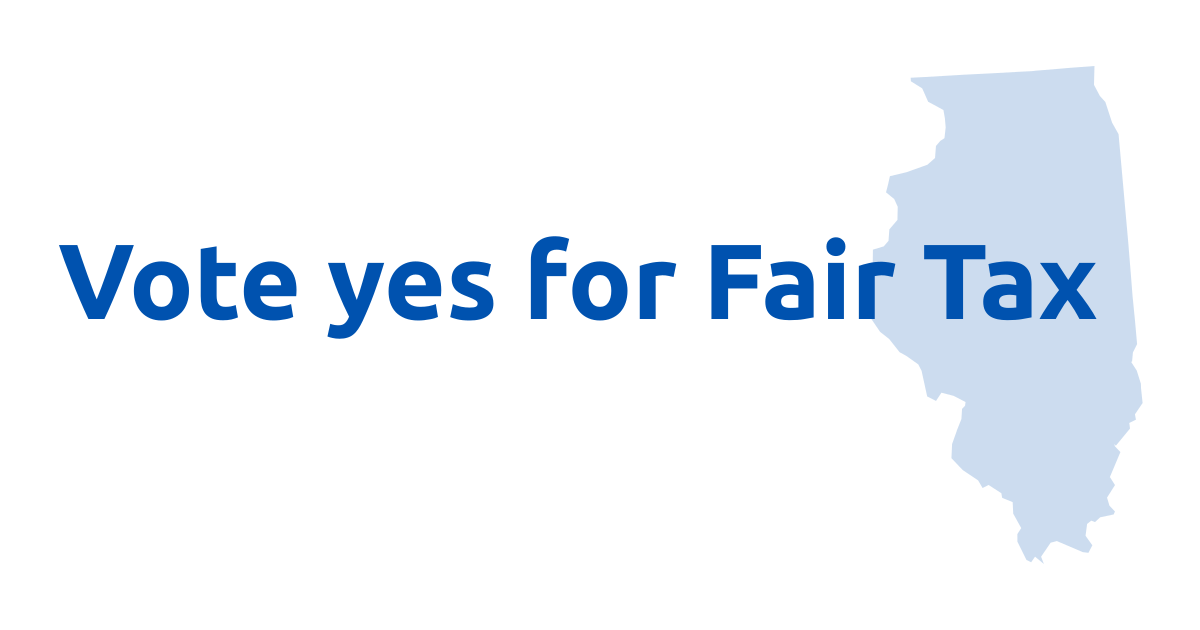
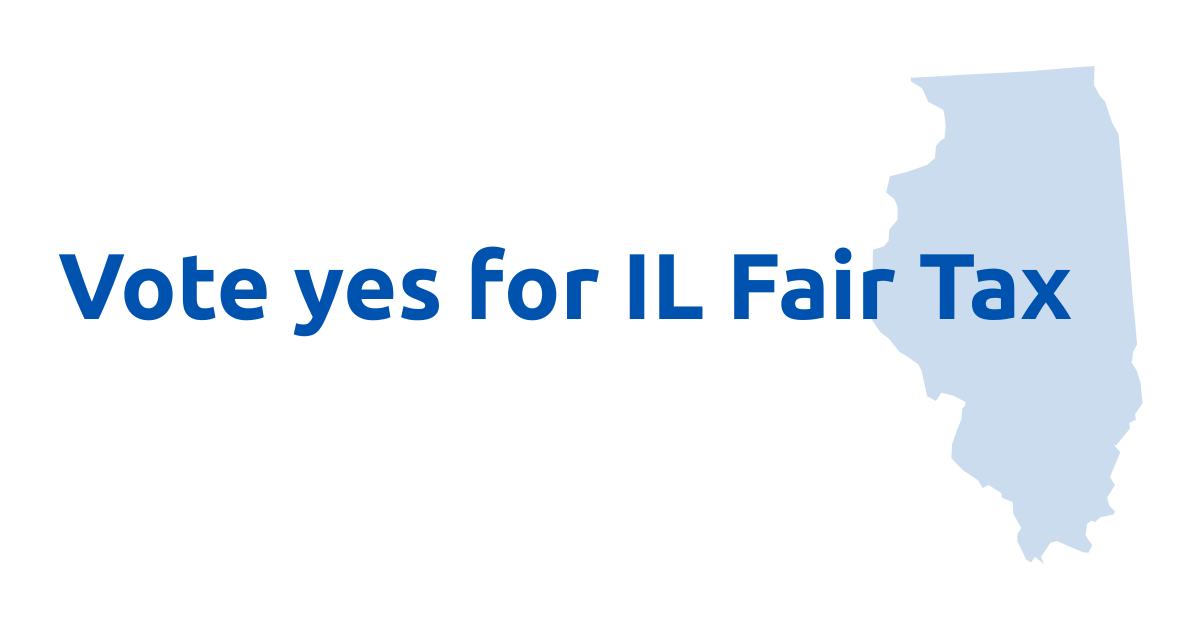
refactor: updates from feedback

Changed region(s): [[0.0308, 0.3619, 0.925, 0.5429]]

diff --git a/site/_data/site.js b/site/_data/site.js
@@ -20,8 +20,8 @@ const baseurl =
     : "http://localhost:8080"
 
 module.exports = {
-  name: "Vote Yes for Fair Tax",
-  title: "Vote Yes for Fair Tax",
+  name: "Vote Yes for the Illinois Fair Tax",
+  title: "Vote Yes for the Illinois Fair Tax",
   type: "website",
   baseurl,
   url: baseurl,

diff --git a/site/en/about-section.md b/site/en/about-section.md
@@ -8,4 +8,4 @@ locale: en
 
 With the current tax system in Illinois, low-income households pay almost twice as large a share of their income as some of the wealthiest people in the state [\[source<span class="visually-hidden"> report from the Institute on Taxation and Economic Policy</span>\]](https://itep.sfo2.digitaloceanspaces.com/whopays-ITEP-2018.pdf). Meanwhile communities across the state don't have the revenue they need to support education, infrastructure, and health care. And the needs are more pressing than ever in the middle of a global pandemic.
 
-We have a chance to change that in the upcoming election. By passing the Fair Tax amendment and updating the tax rates, we can raise more than \$3 billion a year by making sure the wealthiest 3% of the state pays their fair share with a small tax increase. You can make Illinois a more fair state for working people by voting yes for the Fair Tax.
+We have a chance to change that in the upcoming election. By passing the Fair Tax amendment and updating the tax rates, we can raise more than \$3 billion a year by making sure households making more than \$250,000 (the wealthiest 3% of the state) pays their fair share with a small tax increase. You can make Illinois a more fair state for working people by voting yes for the Fair Tax.

diff --git a/site/en/faqs/property-taxes.md b/site/en/faqs/property-taxes.md
@@ -1,9 +1,9 @@
 ---
 tags: faqs
 title: Don't I pay enough in property taxes?
-order: 4
+order: 6
 ---
 
-That's actually part of what the Fair Tax is trying to address! The majority of local school budgets in Illinois [comes from local property taxes](https://www.centerforilpolitics.org/articles/illinois-school-funding-a-prime-time-primer), and increasing the amount of funding from the state can start to reduce the property tax burden from local governments.
+That's actually part of what the Fair Tax is trying to address! The majority of local school budgets in Illinois [comes from local property taxes](https://www.centerforilpolitics.org/articles/illinois-school-funding-a-prime-time-primer), and increasing the amount of education funding from the state is a necessary first step in reducing local property taxes.
 
 The bill also includes an increase in the property tax credit from 5 percent to 6 percent, and up to a $100 per-child tax credit for couples earning less than $100,000 and single persons earning less than \$80,000. See [Public Act 101-0008](https://www.ilga.gov/legislation/publicacts/fulltext.asp?Name=101-0008) for more details.

diff --git a/site/en/faq-about.md b/site/en/faq-about.md
@@ -4,6 +4,6 @@ permalink: false
 locale: en
 ---
 
-The Fair Tax would raise the money we need to provide quality public education, improve our roads and infrastructure, and create quality jobs all through a modest tax increase for the top 3% of incomes in the state. With many programs still hurting from the state going without a budget for so long and a global pandemic, it's more important than ever that we strengthen essential services with the funding they need.
+The Fair Tax would raise the money we need to provide quality public education, improve our roads and infrastructure, and create quality jobs all through a modest tax increase for incomes over \$250,000 in the state. With many programs still hurting from the state going without a budget for so long and a global pandemic, it's more important than ever that we strengthen essential services with the funding they need.
 
 With all the noise around election season, it can be hard to separate the facts from scare tactics. To make it easier to get the information you need, we've put together answers to some common questions.

diff --git a/site/en/faqs/rates.md b/site/en/faqs/rates.md
@@ -1,7 +1,7 @@
 ---
 tags: faqs
 title: What are the tax rates?
-order: 3
+order: 2
 ---
 
 The poorest people, who need the money most, will get the steepest cut in their tax rates, but everyone will get the same cut of their first 10k of income.
@@ -11,7 +11,7 @@ Right now everyone pays 4.95%. These rates were set in [Public Act 101-0008](htt
 
 - 4.75% on taxable income from $0 to $10,000
 - 4.9% from $10,001 to $100,000
-- 4.95% from $100,001 to $250,000
+- 4.95% from $100,001 to $250,000 (current rate for all income with the flat tax)
 - 7.75% from $250,001 to $350,000
 - 7.85% from $350,001 to $750,000
 - 7.99% on all income for incomes above \$750,000
@@ -20,7 +20,7 @@ Right now everyone pays 4.95%. These rates were set in [Public Act 101-0008](htt
 
 - 4.75% on taxable income from $0 to $10,000
 - 4.9% from $10,001 to $100,000
-- 4.95% from $100,001 to $250,000
+- 4.95% from $100,001 to $250,000 (current rate for all income with the flat tax)
 - 7.75% from $250,001 to $500,000
 - 7.85% from $500,001 to $1,000,000
 - 7.99% on all income for incomes above \$1,000,000

diff --git a/site/en/faqs/small-business.md b/site/en/faqs/small-business.md
@@ -1,7 +1,7 @@
 ---
 tags: faqs
 title: Won't this hurt small businesses?
-order: 5
+order: 7
 ---
 
-Not according to this [report from the Center for Budget and Tax Accountability](https://budgetblog.ctbaonline.org/small-businesses-wont-suffer-because-of-the-fair-tax-9195c361324). In fact, the long-term benefits of avoiding budget cuts and funding services like education and infrastructure are actually more likely to help businesses in the long run.
+Not according to this [report from the Center for Budget and Tax Accountability](https://budgetblog.ctbaonline.org/small-businesses-wont-suffer-because-of-the-fair-tax-9195c361324). In fact, the long-term benefits of avoiding budget cuts and funding services like education and infrastructure are actually more likely to help businesses in the long run. Many business owners agree that the pros outweigh the cons, and this [op-ed from a CEO in Crain's Chicago](https://www.voteyesforfairness.com/crains-chicago-op-ed-fair-tax-would-benefit-young-entrepreneurs) talks about how it can help young entrepreneurs in particular.

diff --git a/site/en/faqs/pensions.md b/site/en/faqs/pensions.md
@@ -1,9 +1,7 @@
 ---
 tags: faqs
-title: Will this mean pensions are taxed?
-order: 6
+title: Won't this all just go to pensions?
+order: 5
 ---
 
-Illinois doesn't currently tax pension or retirement income and the Fair Tax amendment won't change that. In fact, it's likely to help protect retirement income from taxation by making sure the rich are paying their fair share.
-
-Source: [Illinois Department of Revenue question on retirement income](https://www2.illinois.gov/rev/questionsandanswers/pages/99.aspx)
+Illinois needs to fulfill its obligations to workers, but pensions are only one part of the state's budget. Education, health care, and social services are all bigger parts of the budget that would be supported by revenue from the Fair Tax. You can take a look at [a breakdown of Illinois's budget](https://www2.illinois.gov/sites/budget/Pages/InteractiveBudget.aspx) to see for yourself.

diff --git a/site/en/faqs/raise-taxes.md b/site/en/faqs/raise-taxes.md
@@ -1,7 +1,7 @@
 ---
 tags: faqs
 title: How can you guarantee you’ll never raise taxes in the future?
-order: 2
+order: 3
 ---
 
-Illinois will have to raise taxes or cut services. If we're stuck with a flat tax system, everyone's taxes will go up. If we switch to a graduated tax system, like many other states have, we can make sure that those who have the most pay the most instead of increasing rates across the board or slashing the budgets of essential services.
+If we're stuck with a flat tax system, we'll need to raise taxes for everyone and still make significant cuts to services. If we switch to a graduated tax system like the federal government and many other states already have, we can make sure that those who have the most pay the most while still providing essential services.

diff --git a/site/en/faqs/retirement-income.md b/site/en/faqs/retirement-income.md
@@ -1,0 +1,9 @@
+---
+tags: faqs
+title: Will this mean retirement income is taxed?
+order: 4
+---
+
+Illinois doesn't currently tax retirement income and the Fair Tax amendment won't change that. In fact, it's likely to help protect retirement income from taxation by making sure the rich are paying their fair share.
+
+Source: [Illinois Department of Revenue question on retirement income](https://www2.illinois.gov/rev/questionsandanswers/pages/99.aspx)

diff --git a/site/en/faqs/services.md b/site/en/faqs/services.md
@@ -1,10 +1,10 @@
 ---
 tags: faqs
 title: What services could the state government invest in?
-order: 5
+order: 8
 ---
 
-- Getting funding back for social services
+- Social and community services
 - Education
 - Counselors and nurses and healthcare providers in schools
 - Higher education

diff --git a/site/en/join-us-section.md b/site/en/join-us-section.md
@@ -4,4 +4,4 @@ permalink: false
 locale: en
 ---
 
-Want to help pass the Fair Tax this November? Sign up to find ways you can help!
+Want to be a part of passing the Fair Tax this November? Fill out a pledge card to vote yes and learn about ways you can help!
